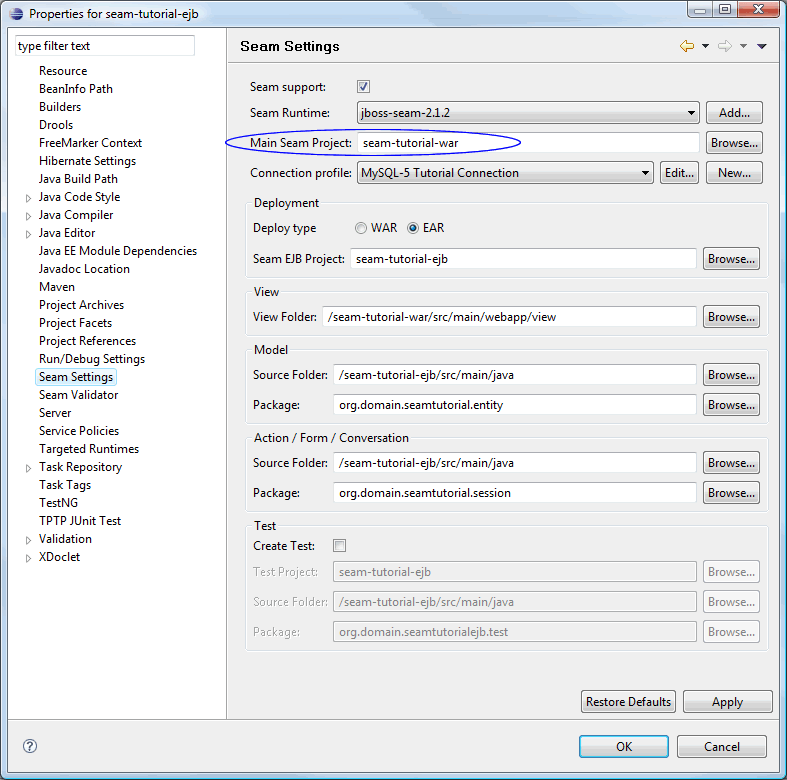
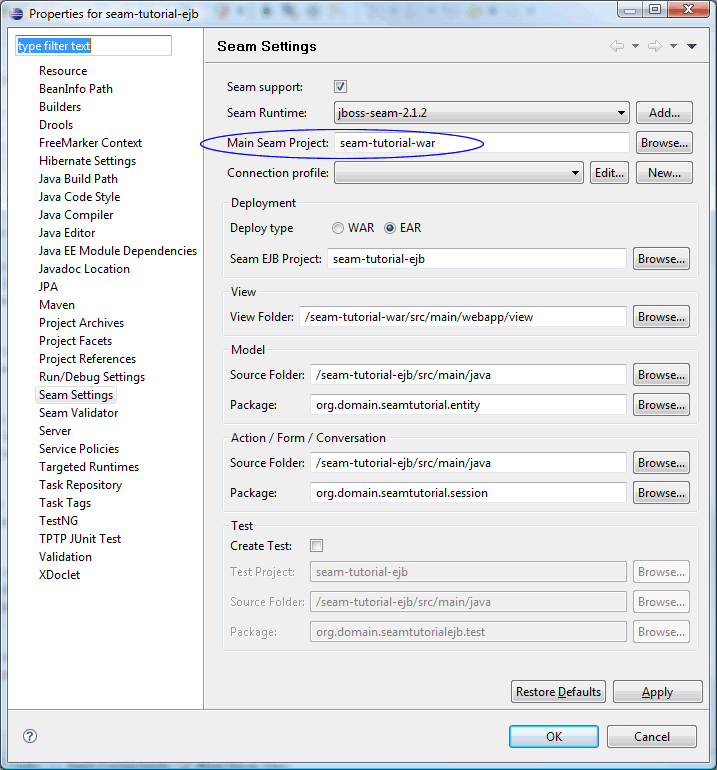
updated tutorial - work in progress

diff --git a/doc/tutorial/02-eclipse.html b/doc/tutorial/02-eclipse.html
@@ -430,7 +430,7 @@ org.jboss.deployment.DeploymentInfo@716583c1 { url=file:/C:/dev/server/jboss-4.2
 		<img src="img/eclipse-wtp-05.png" style="width:330px; display:block;" />
 	</li>
 	<li>
-		Inspect the deploy folder and verify the the unwanted files are gone and that the 
+		Inspect the deploy folder and verify the the incorrectly deployed files are gone and that the 
 		<code>*-ds.xml</code> file is present.
 		<img src="img/eclipse-wtp-06.png" style="width:400px; display:block;" />
 	</li>
@@ -460,9 +460,10 @@ org.jboss.deployment.DeploymentInfo@716583c1 { url=file:/C:/dev/server/jboss-4.2
 </ol>
 
 <h3>Maven Builder</h3>
-<p>If you don't want to live with all the WTP annoyance then you can create a Maven builder that 
-takes care of the incremental deployment. In combination with the <code>mvn install -Pexplode</code>
-goal you will have an deployment that is more stable than WTP.</p>
+<p>As an alternative to WTP you can create a Maven builder that hooks in to the 
+<code>process-classes</code> goal and takes care of the incremental deployment.  
+ In combination with the <code style="white-space:nowrap">mvn install -Pexplode</code>
+goal you will have a complete build/deploy environment that is more stable than WTP.</p>
 <ol>
 	<li>
 	  Configure the Maven Builder.<br/>
@@ -550,10 +551,9 @@ with a a lot of tasks you otherwise would have used hours and days to complete.
 The Tools is not essential for developing a Mavenized Seam application, but it has a lot of 
 useful wizards and automated tasks. If you have an existing database then you can use the Tools to 
 generate a full CRUD application with entities, Seam framework classes (home- and list classes) and 
-a user interface with navigation and drilldown. For a database with ten tables this will take no more 
-than 30 seconds to complete (better than RoR?). If you use the Tools to create an 
-entity then the Tools will automatically generate the corresponding Seam framework classes as well 
-as a xhtml page with CRUD functionality. 
+a user interface with navigation and drilldown. If you use the Tools to create an entity class, 
+then the Tools will automatically generate the corresponding Seam framework classes and corresonding 
+xhtml pages. 
 </p>
 <p>JBoss tools is a Eclipse feature, that can be enabled on a project by adding some configuration 
 (JSF and Seam facets, the SeamBuilder and SeamNature) to the Eclipse project. JBoss Tools will 
@@ -591,6 +591,7 @@ choice, e.g. <code>C:/ide/libs/jboss-seam-2.1.1.GA</code>. Open <code><strong>Pr
 	</li>
 </ol>
 
+<!--
 <h3> Define a Data Source</h3>
 <p>If you plan to use JBoss Tools to do reverse engeneering, then you need to define and connect to
 a datasource. The screenshots below outlines one possible way to accomplish this.</p>
@@ -630,6 +631,7 @@ a datasource. The screenshots below outlines one possible way to accomplish this
 		<img src="img/eclipse-data-source-explorer-02.png" style="width:300px; display:block;" />
 	</li>
 </ol>
+-->
 
 
 <h3 id="configure-jboss-tools-for-a-project">Configure JBoss Tools for a Project</h3>
@@ -639,16 +641,24 @@ the main source of configuration, so we'll start with the WAR.</p>
 	<li>
 	  The WAR module:
     <img src="img/eclipse-war-properties-07.png" style="width:700px; display:block;" />
+		
+		<!--
     <img src="img/eclipse-war-properties-04.png" style="width:700px; display:block;" />
     <img src="img/eclipse-war-properties-05.png" style="width:700px; display:block;" />
+		-->
+		
     <img src="img/eclipse-war-properties-08.png" style="width:700px; display:block;" />
     <img src="img/eclipse-war-properties-09.png" style="width:700px; display:block;" />
 	</li>
 	<li>
 	  The EJB module:
     <img src="img/eclipse-ejb-properties-01.png" style="width:700px; display:block;" />
+		
+		<!--
     <img src="img/eclipse-ejb-properties-03.png" style="width:700px; display:block;" />
     <img src="img/eclipse-ejb-properties-05.png" style="width:700px; display:block;" />
+		-->
+		
 	</li>
 	<li>
 	  The EAR module:<br/>
